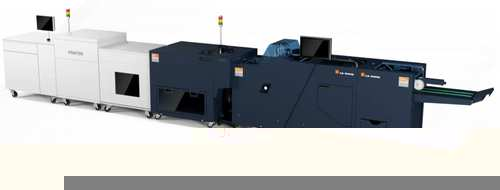
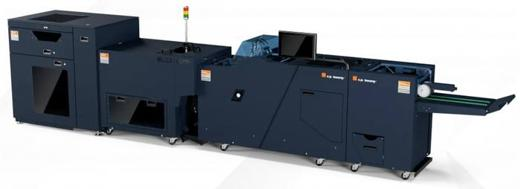
Correct offline equipment asset and lock visual mapping

diff --git a/equipment-visuals.js b/equipment-visuals.js
@@ -1,10 +1,10 @@
-(()=>{if(window.__bourgEquipmentVisualsV2)return;window.__bourgEquipmentVisualsV2=true;
-const ASSETS={inline:'./inline-config.jpg',offline:'./offline-config.jpg'};
+(()=>{if(window.__bourgEquipmentVisualsV3)return;window.__bourgEquipmentVisualsV3=true;
+const ASSETS={inline:'./inline-config.jpg?v=4.4',offline:'./offline-config.jpg?v=4.4'};
 const css=`.config-visual{margin:0 0 16px;border:1px solid var(--line);border-radius:16px;background:#fff;overflow:hidden}.config-visual img{display:block;width:100%;height:auto;max-height:260px;object-fit:contain;background:#fff}.config-caption{padding:9px 11px;border-top:1px solid var(--line);font-size:11px;line-height:1.4;color:var(--muted)}.config-caption b{color:var(--navy)}.machine-visual{display:block;width:100%;height:118px;object-fit:contain;background:#fff;border:1px solid #edf2f5;border-radius:12px;margin:0 0 10px}.visual-tag{display:inline-flex;align-items:center;gap:5px;font-size:10px;font-weight:850;color:var(--navy);background:#edf5fa;border-radius:999px;padding:4px 7px;margin-bottom:8px}@media(max-width:520px){.config-visual img{max-height:190px}.machine-visual{height:96px}}`;
 const style=document.createElement('style');style.textContent=css;document.head.appendChild(style);
 function fullVisual(id,src,alt,title,caption,target){if(document.getElementById(id)||!target)return;const fig=document.createElement('figure');fig.id=id;fig.className='config-visual';const img=document.createElement('img');img.src=src;img.alt=alt;img.loading='eager';img.decoding='async';const cap=document.createElement('figcaption');cap.className='config-caption';cap.innerHTML=`<b>${title}</b> — ${caption}`;fig.append(img,cap);target.before(fig)}
-fullVisual('inlineEquipmentVisual',ASSETS.inline,'Inline CP Bourg BBM/BMe configuration connected directly to a printer','Inline configuration','Printer feeding directly into the CP Bourg BBM/BMe finishing line.',document.getElementById('inlineInputs'));
-fullVisual('offlineEquipmentVisual',ASSETS.offline,'Offline CP Bourg configuration with BSF, BPM and BBM/BMe','Offline configuration','Bourg Sheet Feeder (BSF) → Bourg Preparation Module (BPM) → BBM/BMe.',document.getElementById('offlineInputs'));
-function enhanceCompare(){const root=document.getElementById('compareResults');if(!root)return;const add=(selector,src,label,alt)=>{const card=root.querySelector(selector);if(!card||card.querySelector('.machine-visual'))return;const head=card.querySelector('.machine-head');if(!head)return;const tag=document.createElement('div');tag.className='visual-tag';tag.textContent=label;const img=document.createElement('img');img.className='machine-visual';img.src=src;img.alt=alt;img.loading='eager';img.decoding='async';head.after(tag,img)};add('.machine.inline',ASSETS.inline,'Inline configuration','Inline CP Bourg BBM/BMe configuration connected to a printer');add('.machine.offline',ASSETS.offline,'BSF → BPM → BBM/BMe','Offline CP Bourg configuration with BSF, BPM and BBM/BMe')}
+fullVisual('inlineEquipmentVisual',ASSETS.inline,'Inline CP Bourg BBM/BMe configuration connected directly to a white production printer','Inline configuration','White production printer feeding directly into the CP Bourg BBM/BMe finishing line.',document.getElementById('inlineInputs'));
+fullVisual('offlineEquipmentVisual',ASSETS.offline,'Offline CP Bourg configuration with Bourg Sheet Feeder, Bourg Preparation Module and BBM/BMe','Offline configuration','Bourg Sheet Feeder (BSF) → Bourg Preparation Module (BPM) → BBM/BMe.',document.getElementById('offlineInputs'));
+function enhanceCompare(){const root=document.getElementById('compareResults');if(!root)return;const add=(selector,src,label,alt)=>{const card=root.querySelector(selector);if(!card||card.querySelector('.machine-visual'))return;const head=card.querySelector('.machine-head');if(!head)return;const tag=document.createElement('div');tag.className='visual-tag';tag.textContent=label;const img=document.createElement('img');img.className='machine-visual';img.src=src;img.alt=alt;img.loading='eager';img.decoding='async';head.after(tag,img)};add('.machine.inline',ASSETS.inline,'Inline • white printer → BBM/BMe','Inline configuration with white production printer feeding the BBM/BMe');add('.machine.offline',ASSETS.offline,'Offline • BSF → BPM → BBM/BMe','Offline configuration with BSF, BPM and BBM/BMe')}
 enhanceCompare();const root=document.getElementById('compareResults');if(root)new MutationObserver(enhanceCompare).observe(root,{childList:true,subtree:true});
 })();

diff --git a/service-worker.js b/service-worker.js
@@ -1,8 +1,8 @@
-const CACHE='bourg-calc-v4.3';
+const CACHE='bourg-calc-v4.4';
 const ASSETS=['./','./index.html','./manifest.json','./icon.svg','./equipment-visuals.js','./inline-config.jpg','./offline-config.jpg'];
 self.addEventListener('install',e=>{self.skipWaiting();e.waitUntil(caches.open(CACHE).then(c=>c.addAll(ASSETS)))});
 self.addEventListener('activate',e=>e.waitUntil(Promise.all([caches.keys().then(keys=>Promise.all(keys.filter(k=>k!==CACHE).map(k=>caches.delete(k)))),self.clients.claim()])));
-function withVisualLayer(html){if(html.includes('equipment-visuals.js'))return html;return html.replace('</body>','<script src="./equipment-visuals.js?v=4.3"></script></body>')}
+function withVisualLayer(html){if(html.includes('equipment-visuals.js'))return html;return html.replace('</body>','<script src="./equipment-visuals.js?v=4.4"></script></body>')}
 self.addEventListener('fetch',e=>{
  if(e.request.mode==='navigate'){
   e.respondWith(fetch(e.request).then(async r=>{
